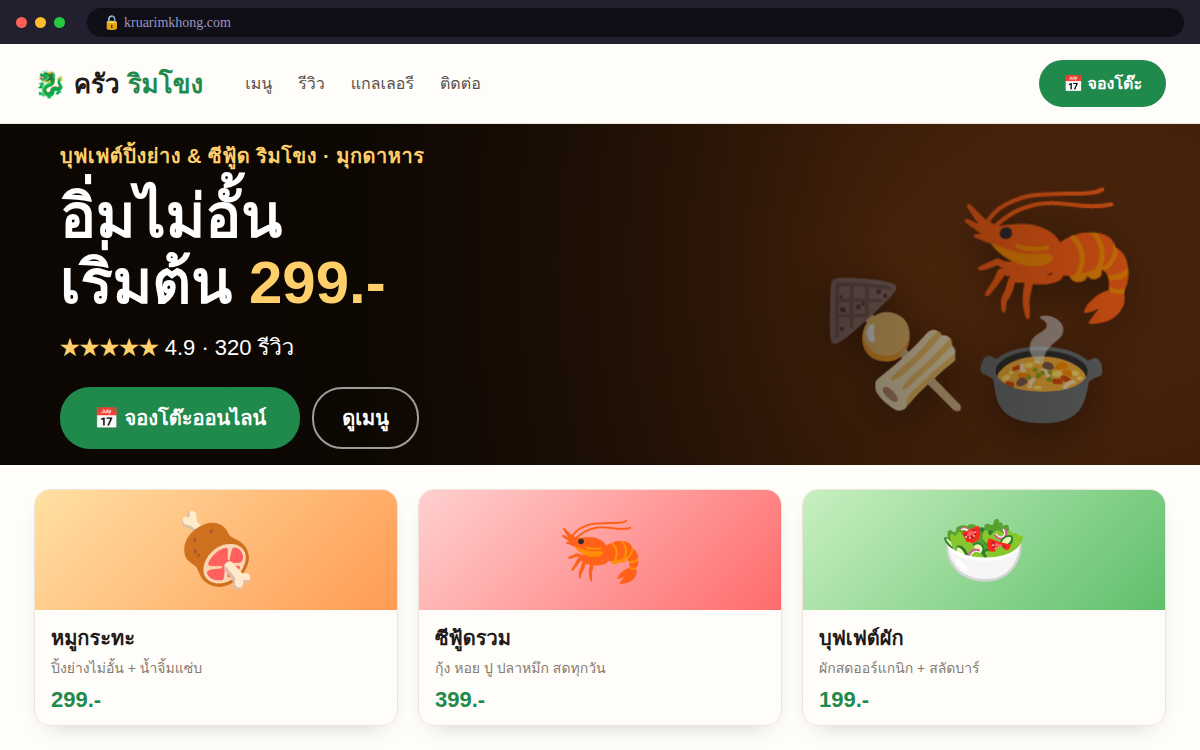
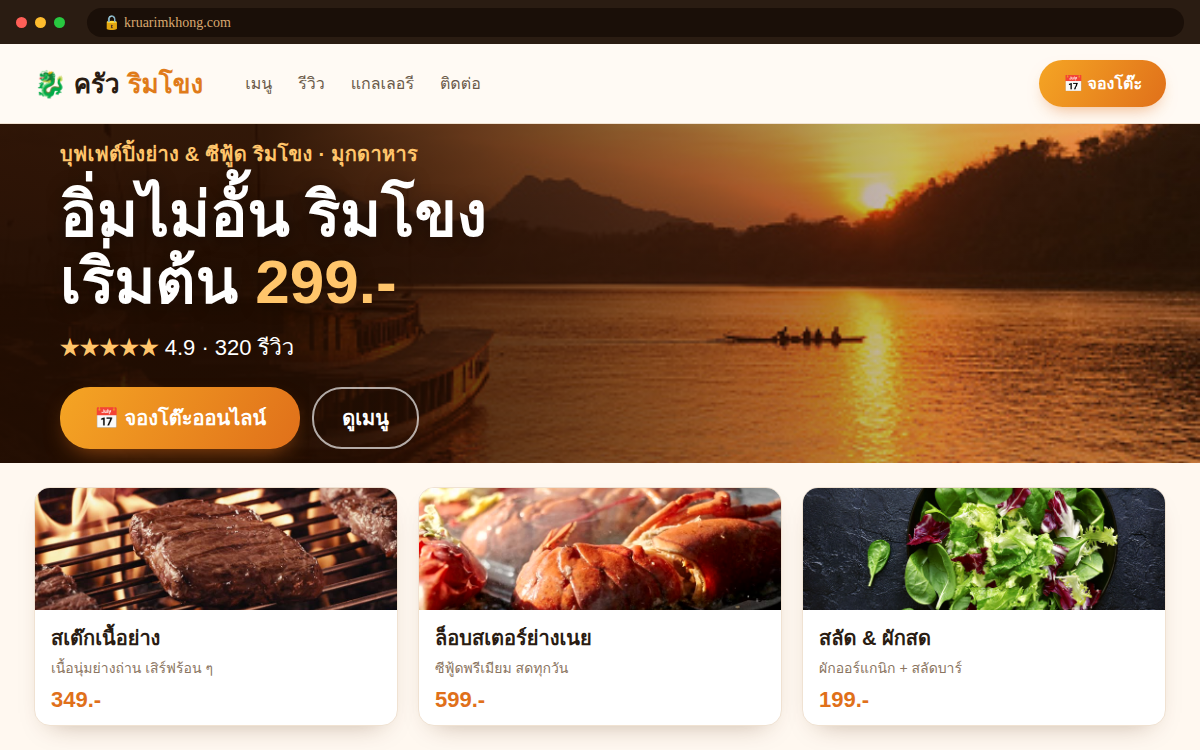
Vraies photos + thème coucher de soleil (démo après)
- after-site hero now uses the Mekong sunset photo with a matching amber/
  gold theme; menu cards use real steak, lobster and salad photos
- ba-after.png regenerated; source photos kept in assets/img/resto/

Claude-Session: https://claude.ai/code/session_01Lf6CpBF9W4tudeC6RUoVi9

diff --git a/assets/brand/generator-restaurant.html b/assets/brand/generator-restaurant.html
@@ -1,7 +1,7 @@
 <!DOCTYPE html><html><head><meta charset="utf-8">
 <link rel="preconnect" href="https://fonts.googleapis.com">
 <link rel="preconnect" href="https://fonts.gstatic.com" crossorigin>
-<link href="https://fonts.googleapis.com/css2?family=Prompt:wght@400;500;600;700;800&family=Noto+Serif+Thai:wght@400;700&family=Sora:wght@700;800&display=swap" rel="stylesheet">
+<link href="https://fonts.googleapis.com/css2?family=Prompt:wght@400;500;600;700;800&family=Noto+Serif+Thai:wght@400;700&display=swap" rel="stylesheet">
 <style>
   *{margin:0;padding:0;box-sizing:border-box}
   body{background:#777}
@@ -11,36 +11,35 @@
   .bar span{width:11px;height:11px;border-radius:50%}
   .bar .u{margin-left:14px;flex:1;font-size:14px;border-radius:20px;padding:6px 16px}
 
-  /* ===================== AFTER (modern) ===================== */
-  #after .bar{background:#22202e}
+  /* ===================== AFTER (modern · sunset theme) ===================== */
+  #after .bar{background:#2a1c12}
   #after .bar span:nth-child(1){background:#ff5f57}#after .bar span:nth-child(2){background:#febc2e}#after .bar span:nth-child(3){background:#28c840}
-  #after .bar .u{background:#100f18;color:#9a95c0;font-family:Prompt}
-  .site-a{height:706px;background:#fffdf9;font-family:"Prompt",sans-serif;color:#211a17;display:flex;flex-direction:column}
-  .nav-a{display:flex;align-items:center;gap:18px;padding:16px 34px;border-bottom:1px solid #eee5d8}
+  #after .bar .u{background:#1a0f08;color:#d8a86f;font-family:Prompt}
+  .site-a{height:706px;background:#fff8f0;font-family:"Prompt",sans-serif;color:#2a1c12;display:flex;flex-direction:column}
+  .nav-a{display:flex;align-items:center;gap:18px;padding:16px 34px;border-bottom:1px solid #f0e2d2;background:#fffaf4}
   .logo-a{font-weight:800;font-size:26px;display:flex;align-items:center;gap:8px}
-  .logo-a b{color:#1f8a4c}
-  .nav-a .lk{margin-left:24px;display:flex;gap:26px;font-size:16px;color:#5a5048;font-weight:500}
-  .nav-a .book{margin-left:auto;background:#1f8a4c;color:#fff;font-weight:700;padding:11px 24px;border-radius:30px;font-size:16px}
+  .logo-a b{color:#e07b1a}
+  .nav-a .lk{margin-left:24px;display:flex;gap:26px;font-size:16px;color:#6b5a4a;font-weight:500}
+  .nav-a .book{margin-left:auto;background:linear-gradient(120deg,#f5a524,#e0701a);color:#fff;font-weight:700;padding:11px 24px;border-radius:30px;font-size:16px;box-shadow:0 8px 18px -8px rgba(224,112,26,.6)}
   .hero-a{height:392px;position:relative;overflow:hidden;display:flex;align-items:center}
-  .hero-a .bgimg{position:absolute;inset:0;background:radial-gradient(circle at 75% 40%,#7a3b12,#2a1408 70%)}
-  .hero-a .food{position:absolute;font-size:150px;filter:drop-shadow(0 10px 20px rgba(0,0,0,.4))}
-  .hero-a .f1{right:60px;top:40px}.hero-a .f2{right:230px;top:150px;font-size:120px}.hero-a .f3{right:90px;bottom:30px;font-size:110px}
-  .hero-a .ov{position:absolute;inset:0;background:linear-gradient(90deg,rgba(10,6,2,.92) 30%,rgba(10,6,2,.2))}
-  .hero-a .htxt{position:relative;padding:0 60px;color:#fff;max-width:680px}
-  .hero-a .kick{color:#ffcf6b;font-weight:600;font-size:20px;letter-spacing:.5px}
-  .hero-a h1{font-size:60px;font-weight:800;line-height:1.1;margin:12px 0 14px}
-  .hero-a h1 em{color:#ffcf6b;font-style:normal}
+  .hero-a img.bg{position:absolute;inset:0;width:100%;height:100%;object-fit:cover}
+  .hero-a .ov{position:absolute;inset:0;background:linear-gradient(90deg,rgba(35,14,2,.92) 22%,rgba(60,24,4,.45) 62%,rgba(255,150,40,.08))}
+  .hero-a .htxt{position:relative;padding:0 60px;color:#fff;max-width:700px}
+  .hero-a .kick{color:#ffc56b;font-weight:600;font-size:20px;letter-spacing:.3px}
+  .hero-a h1{font-size:62px;font-weight:800;line-height:1.08;margin:12px 0 14px;text-shadow:0 2px 18px rgba(0,0,0,.4)}
+  .hero-a h1 em{color:#ffc56b;font-style:normal}
   .hero-a .stars{font-size:22px;color:#fff;margin-bottom:22px}
-  .hero-a .stars b{color:#ffcf6b}
-  .hero-a .cta{display:inline-block;background:#1f8a4c;color:#fff;font-weight:700;font-size:20px;padding:15px 34px;border-radius:30px}
-  .hero-a .cta2{display:inline-block;margin-left:12px;border:2px solid rgba(255,255,255,.6);color:#fff;font-weight:600;font-size:20px;padding:13px 28px;border-radius:30px}
+  .hero-a .stars b{color:#ffc56b}
+  .hero-a .cta{display:inline-block;background:linear-gradient(120deg,#f5a524,#e0701a);color:#fff;font-weight:700;font-size:20px;padding:15px 34px;border-radius:30px;box-shadow:0 10px 24px -10px rgba(224,112,26,.7)}
+  .hero-a .cta2{display:inline-block;margin-left:12px;border:2px solid rgba(255,255,255,.65);color:#fff;font-weight:600;font-size:20px;padding:13px 28px;border-radius:30px}
   .menu-a{flex:1;display:grid;grid-template-columns:1fr 1fr 1fr;gap:20px;padding:24px 34px}
-  .mcard{border:1px solid #eee5d8;border-radius:16px;overflow:hidden;box-shadow:0 10px 24px -16px rgba(0,0,0,.3);display:flex;flex-direction:column}
-  .mcard .pic{height:120px;display:flex;align-items:center;justify-content:center;font-size:70px}
+  .mcard{border:1px solid #f0e2d2;border-radius:16px;overflow:hidden;box-shadow:0 12px 26px -16px rgba(80,40,0,.4);display:flex;flex-direction:column;background:#fff}
+  .mcard .pic{height:122px;overflow:hidden}
+  .mcard .pic img{width:100%;height:100%;object-fit:cover;display:block}
   .mcard .b{padding:12px 16px}
   .mcard .b h4{font-size:20px;font-weight:700}
-  .mcard .b p{font-size:14px;color:#857a70;margin:3px 0 8px}
-  .mcard .b .pr{font-weight:800;color:#1f8a4c;font-size:22px}
+  .mcard .b p{font-size:14px;color:#8a7460;margin:3px 0 8px}
+  .mcard .b .pr{font-weight:800;color:#e0701a;font-size:22px}
 
   /* ===================== BEFORE (old 2005) ===================== */
   #before .bar{background:#c8c8c8}
@@ -53,7 +52,7 @@
   .site-b .marq{text-align:center;color:#008000;font-size:18px;margin-bottom:10px}
   .row-b{display:flex;gap:18px;margin-top:6px}
   .photo-b{border:4px ridge #999;background:#cde;padding:6px;width:230px;text-align:center}
-  .photo-b .px{font-size:90px;image-rendering:pixelated;filter:contrast(1.2) saturate(1.3)}
+  .photo-b .px{font-size:90px}
   .photo-b .cap{font-size:14px;color:#333;margin-top:4px}
   table.menu-b{border-collapse:collapse;font-size:18px;flex:1}
   table.menu-b td{border:1px solid #999;padding:5px 12px}
@@ -77,20 +76,19 @@
       <div class="book">📅 จองโต๊ะ</div>
     </div>
     <div class="hero-a">
-      <div class="bgimg"></div>
-      <div class="food f1">🦐</div><div class="food f2">🍢</div><div class="food f3">🍲</div>
+      <img class="bg" src="photo-sunset.jpg" alt="Mekong sunset">
       <div class="ov"></div>
       <div class="htxt">
         <div class="kick">บุฟเฟต์ปิ้งย่าง &amp; ซีฟู้ด ริมโขง · มุกดาหาร</div>
-        <h1>อิ่มไม่อั้น<br>เริ่มต้น <em>299.-</em></h1>
+        <h1>อิ่มไม่อั้น ริมโขง<br>เริ่มต้น <em>299.-</em></h1>
         <div class="stars"><b>★★★★★</b> 4.9 · 320 รีวิว</div>
         <a class="cta">📅 จองโต๊ะออนไลน์</a><a class="cta2">ดูเมนู</a>
       </div>
     </div>
     <div class="menu-a">
-      <div class="mcard"><div class="pic" style="background:linear-gradient(135deg,#ffe0a3,#ff9b54)">🍖</div><div class="b"><h4>หมูกระทะ</h4><p>ปิ้งย่างไม่อั้น + น้ำจิ้มแซ่บ</p><div class="pr">299.-</div></div></div>
-      <div class="mcard"><div class="pic" style="background:linear-gradient(135deg,#ffd0d0,#ff6b6b)">🦐</div><div class="b"><h4>ซีฟู้ดรวม</h4><p>กุ้ง หอย ปู ปลาหมึก สดทุกวัน</p><div class="pr">399.-</div></div></div>
-      <div class="mcard"><div class="pic" style="background:linear-gradient(135deg,#c8f0c0,#5fbf6b)">🥗</div><div class="b"><h4>บุฟเฟต์ผัก</h4><p>ผักสดออร์แกนิก + สลัดบาร์</p><div class="pr">199.-</div></div></div>
+      <div class="mcard"><div class="pic"><img src="photo-steak.jpg" alt="steak"></div><div class="b"><h4>สเต๊กเนื้อย่าง</h4><p>เนื้อนุ่มย่างถ่าน เสิร์ฟร้อน ๆ</p><div class="pr">349.-</div></div></div>
+      <div class="mcard"><div class="pic"><img src="photo-lobster.jpg" alt="lobster"></div><div class="b"><h4>ล็อบสเตอร์ย่างเนย</h4><p>ซีฟู้ดพรีเมียม สดทุกวัน</p><div class="pr">599.-</div></div></div>
+      <div class="mcard"><div class="pic"><img src="photo-salad.jpg" alt="salad"></div><div class="b"><h4>สลัด &amp; ผักสด</h4><p>ผักออร์แกนิก + สลัดบาร์</p><div class="pr">199.-</div></div></div>
     </div>
   </div>
 </div></div>